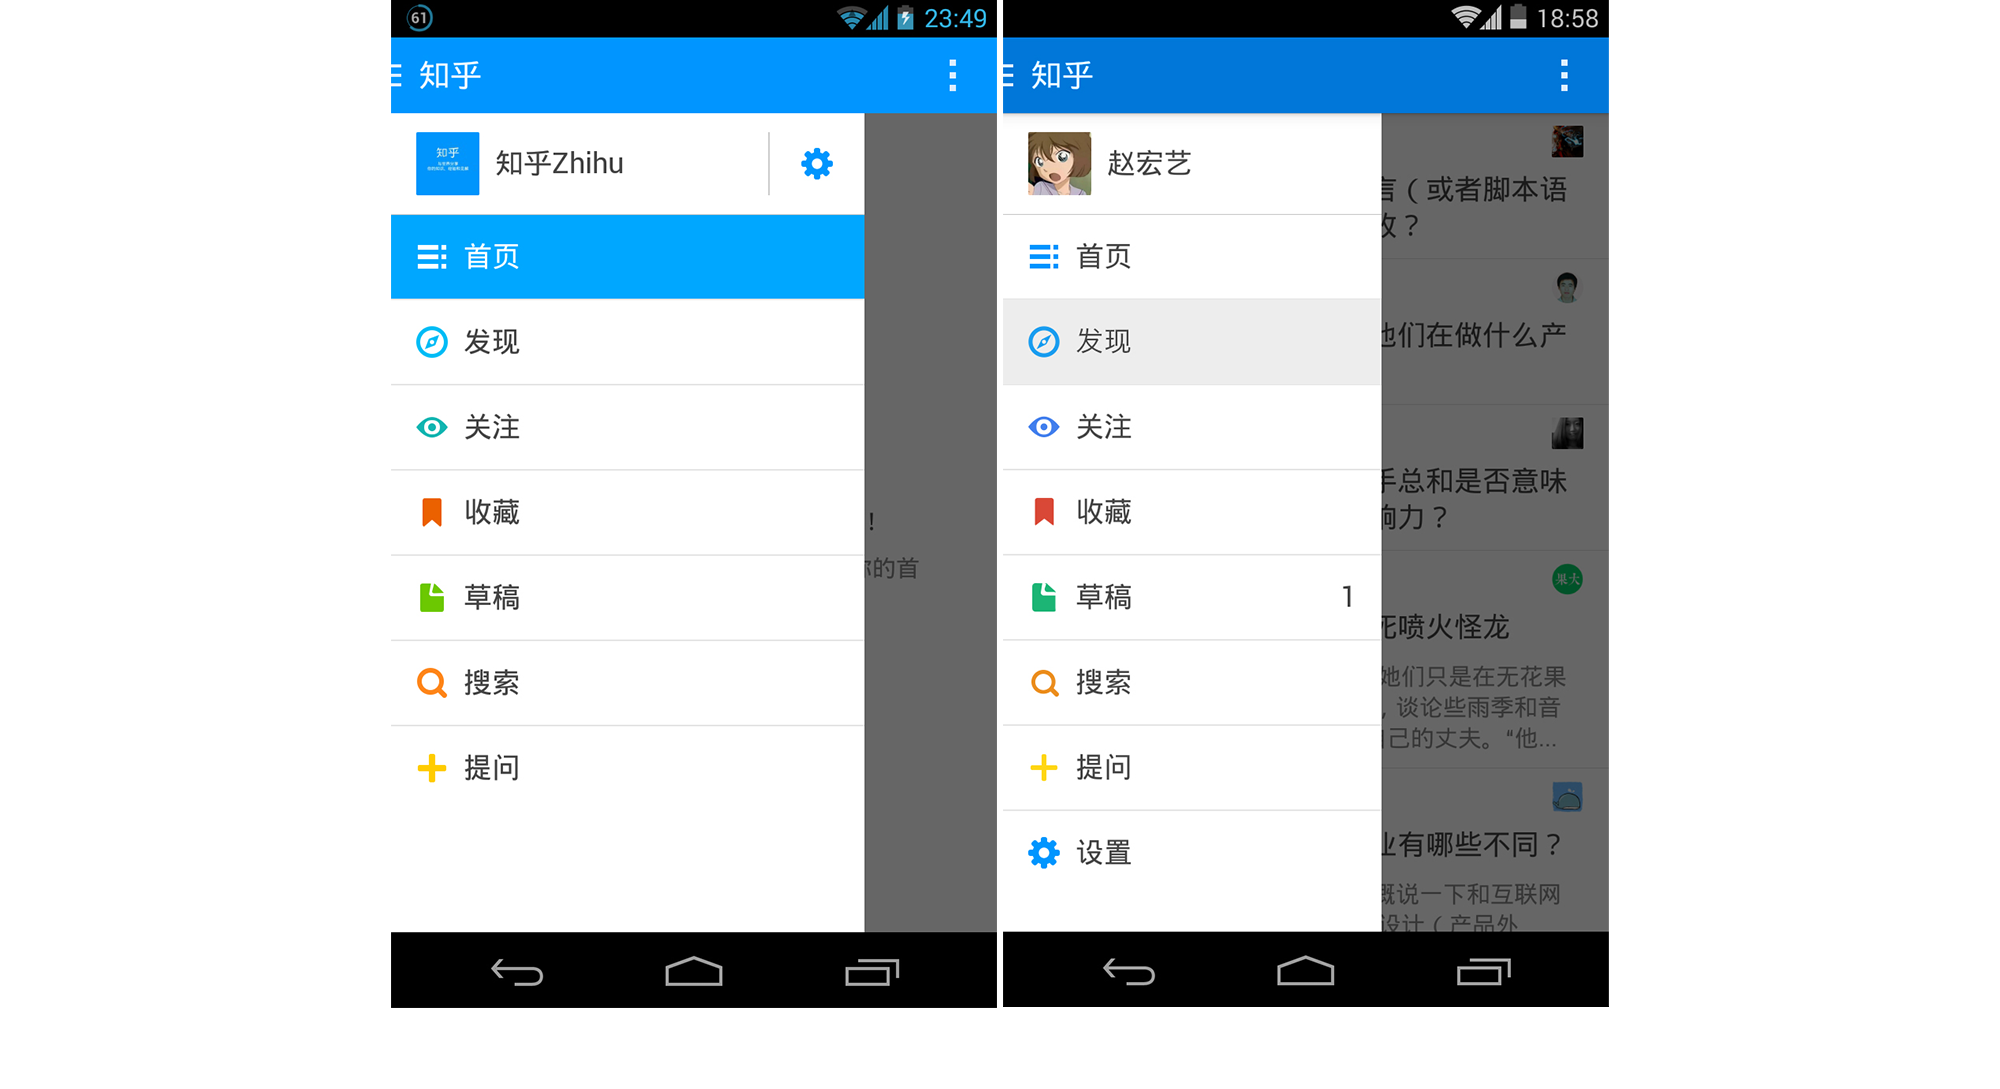
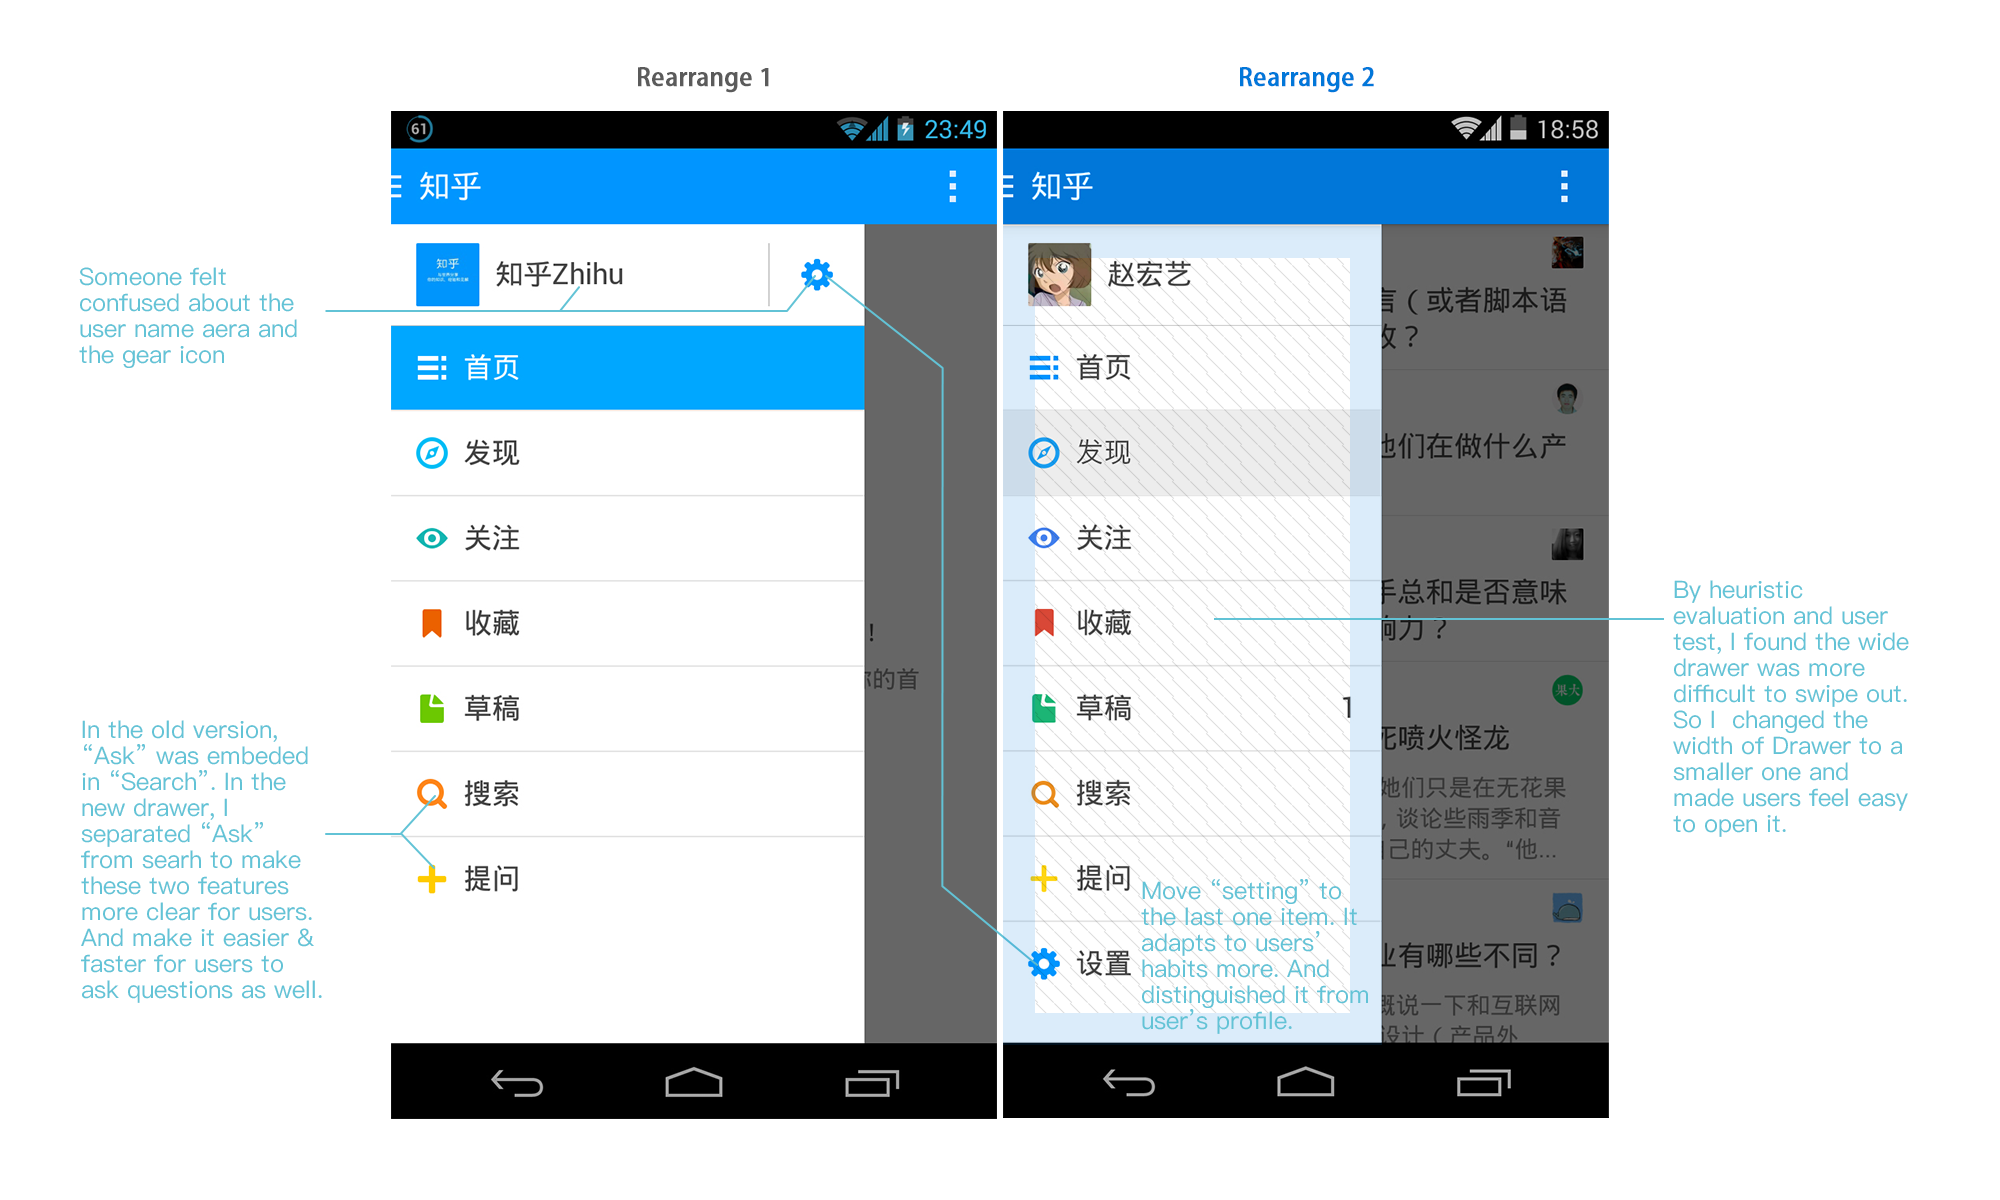
update

diff --git a/wysummit-2016/index.html b/wysummit-2016/index.html
@@ -131,11 +131,11 @@
   <h2>#ISSUE-1: Where to place the access of the ticket selling button?</h2>
   <p>We expect that people could see the button on every page in the site. As a designer, I don't want this button to bother people and distract people from the main content. Therefore I put ticket selling button on the sidebar and made it always fixed in the top-right corner, so that people could click this button to buy tickets while they were browsing the description of the conference details on any page. </p>
 
-  <p>As for the style of the ticket selling button, I knew my colleagues and audiences really care about it, especially where it is placed on the home page and what it looks like (It is the shortest path to get tickets, so it is needed to be highlight and avoid being ignored). Originally I prepared two styles for it.</p>
+  <p>As for the style of the ticket selling button, I knew my colleagues and audiences really care about it, especially where it is placed on the home page and what it looks like (It is the shortest path to get tickets, so it is necessary to be highlight and avoid being ignored). Originally I prepared two styles for it.</p>
   <img src="../img/wysummit-2016/btn.png" class="work-img">
   After testing 10 people by let them choose the one that intuitively looks more acttractive and eye catching, 8 people chose the second one other than the outline stroke style. So I choose the second one that is also the one I like better to be the final button style.
 
-  <h2>output:</h2>
+  <h2>output</h2>
   <img src="../img/wysummit-2016/btn2.png" class="work-img">
 
 

diff --git a/zhihu-android/index.html b/zhihu-android/index.html
@@ -129,7 +129,12 @@ After the Users Research, We found that people usually use our app when taking m
     <h2>As for the Navigation:</h2>
     <p>We built the structure of navigation according to the information structure of Zhihu App and Android Design Guideline .We revised it over and over again aiming to make its sequence more clear &amp; logical and easy to touch.</p>
   </div>
+  <h2>I selected several important parts and classified them by priority and function </h2>
+  <img src="../img/zhihu-android/evo1.png" class="work-img">
+  <h2>Rearrange Drawer by heuristic evaluation and users's test</h2>
   <img src="../img/zhihu-android/evo.png" class="work-img">
+  <h2>The Final Version</h2>
+  <img src="../img/zhihu-android/4.png" class="work-img">
 
   <div class="work-img-caption">
     <h2>  As for the Layout:</h2>
@@ -142,7 +147,7 @@ After the Users Research, We found that people usually use our app when taking m
     </div>
       <img src="../img/zhihu-android/6.png" class="work-img">
   <div class="work-img-caption">
-  <h2>As for Digging out more Valuable Contents:</h2>
+  <h2>Solution for Digging out more Valuable Contents:</h2>
   <p>We redesigned the Explore page to present more kinds of information including Hot Topics/ Hot Collections/ Editor's Choice/ Hot Charts, so users could find more contents they may be interested in or curious about out of Feed.</p>
   </div>
   <img src="../img/zhihu-android/7.png" class="work-img">
